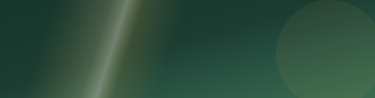
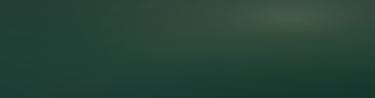
Soften Wallet strip glow and shorten the event title.
Replace the hard diagonal sheen with a subtle blurred wash so the pass face reads smoother.

diff --git a/lib/apple-wallet.ts b/lib/apple-wallet.ts
@@ -100,7 +100,10 @@ function clipPassText(value: string, max: number): string {
 }
 
 function walletFrontTitle(title: string): string {
-  return clipPassText(title, 28)
+  // Event-ticket primary field is short; prefer a scramble-friendly label.
+  const t = title.trim()
+  if (/golf\s*scramble/i.test(t)) return "Golf Scramble"
+  return clipPassText(t, 22)
 }
 
 function venueFor(input: WalletPassInput) {

diff --git a/README.md b/README.md
@@ -205,7 +205,7 @@ Without these env vars the button shows a “not configured yet” note and `/ti
 
 Pass icons/logos/strip are prebuilt in `public/brand/wallet/` from `public/brand/maddy-wallet-logo-color.png` (regenerate locally with sharp if the brand mark changes). Ticket pages must not import `sharp` — it breaks Vercel’s linux runtime and turns the ticket URL into a blank 500 (custom `app/not-found.tsx` only covers real 404s).
 
-Front-face WHEN/WHERE are shortened on purpose (Wallet truncates long secondary fields); full date and address stay on the pass back. Apple does **not** allow third-party passes to have a motion/holographic sheen that tracks the phone — that effect is Apple-only. We use a static gold sheen on the strip image instead.
+Front-face WHEN/WHERE/title are shortened on purpose (Wallet truncates long fields); full date and address stay on the pass back. Apple does **not** allow third-party passes to have a motion/holographic sheen that tracks the phone — that effect is Apple-only. The strip uses a soft, low-contrast glow (not a hard diagonal band).
 
 ## Registration email (ops)
 
